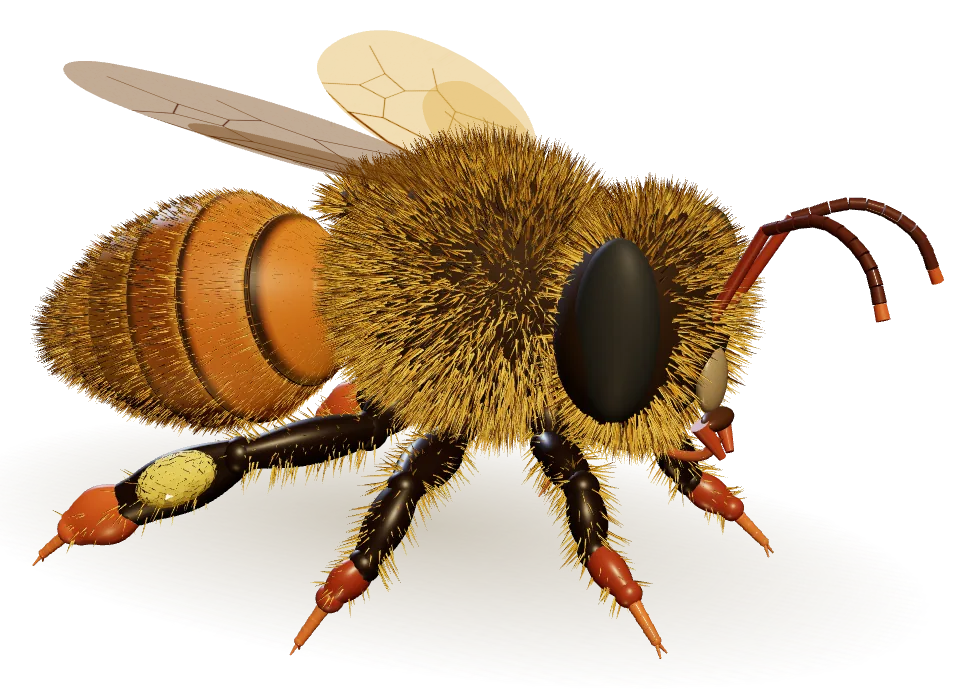
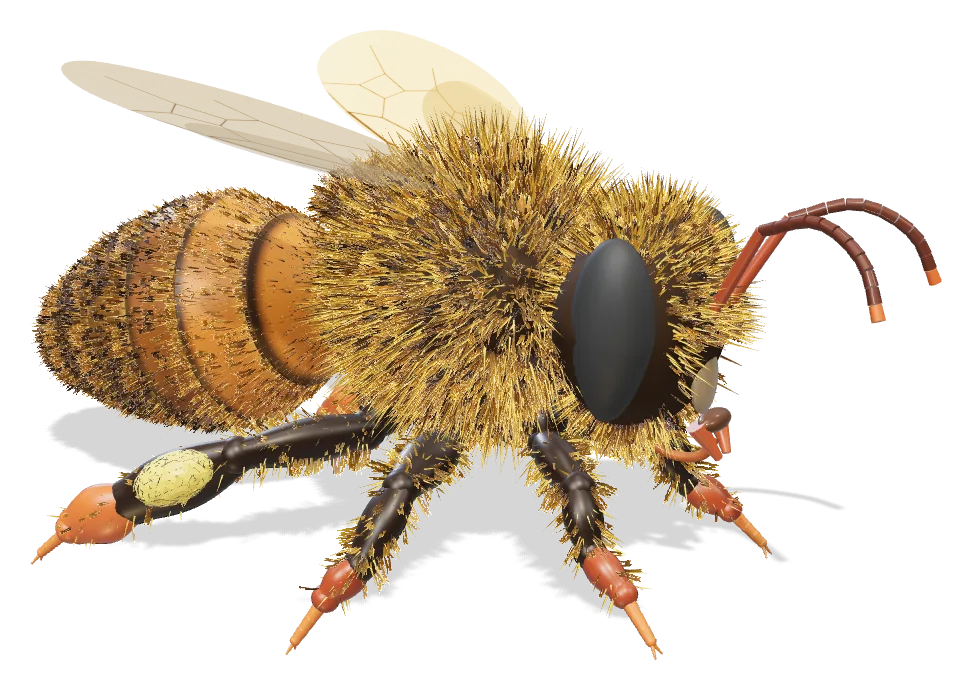
Ape 3D più realistica: pelliccia a ciocche, luce da studio, ombre
- Pelliccia con hair cards (ciocche semitrasparenti con texture di peli)
  su torace, testa, addome e zampe, più peli lunghi isolati sul contorno
- Ambiente da studio (RoomEnvironment) per riflessi morbidi, ombre reali
  dell'ape su se stessa e sul piano
- Puntinatura della cuticola su zampe e faccia
- Testa triangolare vista di fronte, occhi a goccia, clipeo più piccolo
- Immagini statiche (fallback e richiamo in home) rigenerate

Claude-Session: https://claude.ai/code/session_0158YTuXUDsj15VT1c2xNVLb

diff --git a/js/ape3d.js b/js/ape3d.js
@@ -1,6 +1,7 @@
 // Ape operaia (Apis mellifera ligustica) costruita in codice — Vie del Lago Apicoltura
 import * as THREE from './three.module.min.js';
 import { OrbitControls } from './OrbitControls.js';
+import { RoomEnvironment } from './RoomEnvironment.js';
 
 const V = (x, y, z) => new THREE.Vector3(x, y, z);
 
@@ -54,6 +55,76 @@ function peloCurvo() {
   const g = new THREE.BufferGeometry();
   g.setAttribute('position', new THREE.Float32BufferAttribute(pos, 3)); g.setIndex(idx); g.computeVertexNormals();
   return g;
+}
+
+// ---------- pelliccia a ciocche (hair cards) ----------
+// texture: centinaia di peli sottili, radice scura e punta chiara, su fondo trasparente
+let _tc = null;
+function texturaCiocca() {
+  if (_tc) return _tc;
+  const W = 128, H = 512, cv = document.createElement('canvas'); cv.width = W; cv.height = H;
+  const x = cv.getContext('2d'), r = rng(77);
+  for (let i = 0; i < 26; i++) {
+    const x0 = W * (0.12 + r() * 0.76), lun = H * (0.45 + r() * 0.55), curva = (r() - 0.5) * W * 0.5, lw = 3 + r() * 3.5;
+    const g = x.createLinearGradient(0, H, 0, H - lun);
+    const b = 0.75 + r() * 0.25;
+    g.addColorStop(0, `rgba(${120 * b},${100 * b},${75 * b},0.95)`);
+    g.addColorStop(0.45, `rgba(${200 * b},${180 * b},${150 * b},0.95)`);
+    g.addColorStop(0.85, `rgba(${250 * b},${240 * b},${215 * b},0.8)`);
+    g.addColorStop(1, 'rgba(255,250,235,0)');
+    x.strokeStyle = g; x.lineWidth = lw; x.lineCap = 'round';
+    x.beginPath(); x.moveTo(x0, H); x.quadraticCurveTo(x0 + curva * 0.4, H - lun * 0.5, x0 + curva, H - lun); x.stroke();
+  }
+  _tc = new THREE.CanvasTexture(cv); _tc.colorSpace = THREE.SRGBColorSpace; _tc.anisotropy = 4;
+  return _tc;
+}
+
+// una striscia leggermente piegata: la base sulla pelle, la punta curva in avanti
+function geoCiocca() {
+  const pos = [], uv = [], idx = [], N = 3;
+  for (let j = 0; j <= N; j++) {
+    const y = j / N, z = 0.22 * y * y;
+    for (const u of [0, 1]) { pos.push(u - 0.5, y, z); uv.push(u, y); }
+  }
+  for (let j = 0; j < N; j++) { const a = j * 2; idx.push(a, a + 1, a + 2, a + 1, a + 3, a + 2); }
+  const g = new THREE.BufferGeometry();
+  g.setAttribute('position', new THREE.Float32BufferAttribute(pos, 3)); g.setAttribute('uv', new THREE.Float32BufferAttribute(uv, 2));
+  // normali lungo il pelo: la luce cade sulla ciocca come sulla pelle sotto, senza macchie scure
+  const nr = []; for (let i = 0; i < pos.length / 3; i++) nr.push(0, 0.95, 0.3);
+  g.setAttribute('normal', new THREE.Float32BufferAttribute(nr, 3));
+  g.setIndex(idx);
+  return g;
+}
+
+let _matCiocca = null;
+function ciocche(punti, colori) {
+  if (!_matCiocca) _matCiocca = new THREE.MeshStandardMaterial({ map: texturaCiocca(), alphaTest: 0.32, alphaToCoverage: true, side: THREE.DoubleSide, roughness: 0.72, metalness: 0 });
+  const im = new THREE.InstancedMesh(geoCiocca(), _matCiocca, punti.length);
+  const m = new THREE.Matrix4(), q = new THREE.Quaternion(), qr = new THREE.Quaternion(), s = new THREE.Vector3(), c = new THREE.Color(), Y = V(0, 1, 0);
+  punti.forEach((p, i) => {
+    q.setFromUnitVectors(Y, p.dir).multiply(qr.setFromAxisAngle(Y, p.v * 6.283 * 5.1));
+    s.set(p.w || p.len * 0.9, p.len, p.len);
+    m.compose(p.pos, q, s); im.setMatrixAt(i, m);
+    im.setColorAt(i, c.set(colori[i % colori.length]).multiplyScalar(0.9 + p.v * 0.25));
+  });
+  im.instanceMatrix.needsUpdate = true; im.castShadow = true; im.receiveShadow = true;
+  return im;
+}
+
+// puntinatura fine della cuticola, come normal map
+let _np = null;
+function normalePuntini() {
+  if (_np) return _np;
+  const N = 256, cv = document.createElement('canvas'); cv.width = cv.height = N;
+  const x = cv.getContext('2d'), r = rng(31); x.fillStyle = 'rgb(128,128,255)'; x.fillRect(0, 0, N, N);
+  for (let i = 0; i < 900; i++) {
+    const cx = r() * N, cy = r() * N, rr = 1 + r() * 2.6;
+    const g = x.createRadialGradient(cx, cy, 0, cx, cy, rr);
+    g.addColorStop(0, 'rgb(128,128,200)'); g.addColorStop(0.6, 'rgb(150,110,240)'); g.addColorStop(1, 'rgba(128,128,255,0)');
+    x.fillStyle = g; x.beginPath(); x.arc(cx, cy, rr, 0, 7); x.fill();
+  }
+  _np = new THREE.CanvasTexture(cv); _np.wrapS = _np.wrapT = THREE.RepeatWrapping; _np.repeat.set(2, 4);
+  return _np;
 }
 
 // peli: tanti coni sottilissimi, orientati lungo la normale e piegati all'indietro
@@ -216,10 +287,11 @@ export function costruisciApe() {
   const ape = new THREE.Group();
   const mat = (color, o = {}) => new THREE.MeshPhysicalMaterial({ color, roughness: 0.6, ...o });
   const cut = mat(0x3a2816, { roughness: 0.75 });
-  const nero = mat(0x2a1a10, { roughness: 0.4, clearcoat: 0.6, clearcoatRoughness: 0.35 });
-  const rosso = mat(0x9c4422, { roughness: 0.38, clearcoat: 0.7, clearcoatRoughness: 0.3 });
-  const arancio = mat(0xc4602a, { roughness: 0.4, clearcoat: 0.6, clearcoatRoughness: 0.3 });
-  const tarso = mat(0xd2722e, { roughness: 0.45, clearcoat: 0.5 });
+  const pt = { normalMap: normalePuntini(), normalScale: new THREE.Vector2(0.5, 0.5) };
+  const nero = mat(0x2a1a10, { roughness: 0.42, clearcoat: 0.6, clearcoatRoughness: 0.35, ...pt });
+  const rosso = mat(0x9c4422, { roughness: 0.38, clearcoat: 0.7, clearcoatRoughness: 0.3, ...pt });
+  const arancio = mat(0xc4602a, { roughness: 0.4, clearcoat: 0.6, clearcoatRoughness: 0.3, ...pt });
+  const tarso = mat(0xd2722e, { roughness: 0.45, clearcoat: 0.5, ...pt });
   const peloMat = new THREE.MeshStandardMaterial({ roughness: 0.75, metalness: 0 });
   const corpo = [];
 
@@ -227,8 +299,9 @@ export function costruisciApe() {
   const TC = V(0.45, 0.05, 0), TS = V(0.55, 0.5, 0.48);
   const torace = new THREE.Mesh(ellissoide(TS.x, TS.y, TS.z), cut); torace.position.copy(TC); ape.add(torace); corpo.push(torace);
   const scut = new THREE.Mesh(ellissoide(0.17, 0.1, 0.26), cut); scut.position.set(0.0, 0.36, 0); ape.add(scut);
-  ape.add(peli(puntiSuEllissoide(9500, TC, TS.clone().multiplyScalar(0.99), 0.14, null, rand, 0.22), ORO, peloMat));
-  ape.add(peli(puntiSuEllissoide(700, V(0.0, 0.36, 0), V(0.17, 0.1, 0.26), 0.1, d => d.y > -0.2, rand, 0.35), ORO, peloMat));
+  ape.add(ciocche(puntiSuEllissoide(4200, TC, TS.clone().multiplyScalar(0.97), 0.16, null, rand, 0.3).map(p => ({ ...p, w: 0.045 + p.v * 0.02 })), ORO));
+  ape.add(ciocche(puntiSuEllissoide(400, V(0.0, 0.36, 0), V(0.17, 0.1, 0.26), 0.12, d => d.y > -0.2, rand, 0.4).map(p => ({ ...p, w: 0.04 })), ORO));
+  ape.add(peli(puntiSuEllissoide(3000, TC, TS.clone().multiplyScalar(0.99), 0.2, null, rand, 0.2), ORO, peloMat));   // peli lunghi isolati sul contorno
 
   // peziolo e addome
   const pez = new THREE.Mesh(ellissoide(0.12, 0.1, 0.11, 20), cut); pez.position.set(-0.12, -0.02, 0); ape.add(pez);
@@ -238,7 +311,7 @@ export function costruisciApe() {
   add.rotation.z = -Math.PI / 2; gAdd.add(add); corpo.push(add);
   // peluria su tutto l'addome: dorata davanti, bruna sui segmenti scuri, fasce chiare all'inizio di ogni tergite
   const pDav = [], pDie = [];
-  for (let i = 0; i < 8000; i++) {
+  for (let i = 0; i < 3800; i++) {
     const t = 0.03 + rand() * 0.95, s = (t * ADDOME.N) % 1, seg = Math.floor(t * ADDOME.N), phi = rand() * Math.PI * 2, r = raggioAddome(t);
     const pos = V(-t * ADDOME.L, Math.cos(phi) * r * 0.99, Math.sin(phi) * r * 0.99);
     const dir = V(-0.9 - rand() * 0.4, Math.cos(phi), Math.sin(phi)).add(V(0, rand() - .5, rand() - .5).multiplyScalar(0.3)).normalize();
@@ -247,25 +320,42 @@ export function costruisciApe() {
     (seg <= 1 || fascia ? pDav : pDie).push(p);
   }
   gAdd.add(peli(pDav, [0xe0a02a, 0xd08e22, 0xeeb840, 0xc07a1c], peloMat), peli(pDie, ORO_SCURO, peloMat));
+  const cDav = [], cDie = [];
+  for (let i = 0; i < 6800; i++) {
+    const t = i < 1600 ? 0.02 + rand() * 0.32 : 0.02 + rand() * 0.95, s = (t * ADDOME.N) % 1, seg = Math.floor(t * ADDOME.N), phi = rand() * Math.PI * 2, r = raggioAddome(t);
+    const pos = V(-t * ADDOME.L, Math.cos(phi) * r * 0.97, Math.sin(phi) * r * 0.97);
+    const dir = V(-1.1 - rand() * 0.5, Math.cos(phi), Math.sin(phi)).normalize();
+    const fascia = s < 0.22, len = (t > 0.85 ? 0.11 : fascia ? 0.09 : 0.065) * (0.75 + rand() * 0.5);
+    (seg <= 1 || fascia ? cDav : cDie).push({ pos, dir, len, w: len * 0.45, v: rand() });
+  }
+  gAdd.add(ciocche(cDav, [0xe6a830, 0xd8962a, 0xf0bc48]), ciocche(cDie, [0x8a6428, 0x6e4c20, 0xa47a30, 0x5a3c18]));
   const pung = new THREE.Mesh(new THREE.ConeGeometry(0.02, 0.17, 10), mat(0xc0602a, { roughness: 0.35 }));
   pung.rotation.z = Math.PI / 2; pung.position.set(-ADDOME.L - 0.06, 0, 0); gAdd.add(pung);
 
   // testa
   const HC = V(1.13, 0.02, 0), HS = V(0.3, 0.42, 0.46);
-  const testa = new THREE.Mesh(ellissoide(HS.x, HS.y, HS.z), cut); testa.position.copy(HC); testa.rotation.z = -0.15; ape.add(testa); corpo.push(testa);
-  ape.add(peli(puntiSuEllissoide(3200, HC, HS.clone().multiplyScalar(1.0), 0.11, d => !(d.x > 0.5 && d.y < -0.05 && Math.abs(d.z) < 0.4) && Math.abs(d.z) < 0.66, rand, 0.05), ORO, peloMat));
+  const gT = ellissoide(HS.x, HS.y, HS.z), pT = gT.attributes.position;
+  for (let i = 0; i < pT.count; i++) { const y = pT.getY(i); if (y < 0) pT.setZ(i, pT.getZ(i) * (1 - 0.38 * (-y / HS.y))); }
+  gT.computeVertexNormals();
+  const testa = new THREE.Mesh(gT, cut); testa.position.copy(HC); testa.rotation.z = -0.15; ape.add(testa); corpo.push(testa);
+  const fTesta = d => !(d.x > 0.5 && d.y < -0.05 && Math.abs(d.z) < 0.4) && Math.abs(d.z) < 0.66 && !(d.y < -0.2 && Math.abs(d.z) > 0.45);
+  ape.add(ciocche(puntiSuEllissoide(1500, HC, HS.clone().multiplyScalar(0.96), 0.1, fTesta, rand, 0.05).map(p => ({ ...p, w: 0.035 })), ORO));
+  ape.add(peli(puntiSuEllissoide(1400, HC, HS, 0.12, fTesta, rand, 0.05), ORO, peloMat));
   // occhi: grandi, grigio scuro opaco, con la trama fine degli ommatidi
   const occhioMat = new THREE.MeshPhysicalMaterial({ color: 0x3a3d41, roughness: 0.62, clearcoat: 0.18, clearcoatRoughness: 0.5, normalMap: texturaOmmatidi(), normalScale: new THREE.Vector2(0.45, 0.45) });
   for (const z of [1, -1]) {
-    const o = new THREE.Mesh(ellissoide(0.17, 0.35, 0.13, 56), occhioMat);
+    const gO = ellissoide(0.17, 0.35, 0.13, 56), pO = gO.attributes.position;
+    for (let i = 0; i < pO.count; i++) { const y = pO.getY(i); if (y < 0) { const k = 1 - 0.32 * (-y / 0.35); pO.setX(i, pO.getX(i) * k); pO.setZ(i, pO.getZ(i) * (0.85 + 0.15 * k)); } }
+    gO.computeVertexNormals();
+    const o = new THREE.Mesh(gO, occhioMat);
     o.position.set(1.17, 0.05, 0.355 * z); o.rotation.set(0.12 * z, -0.35 * z, -0.12); ape.add(o); corpo.push(o);
   }
   for (const [x, y, z] of [[1.1, 0.42, 0], [1.03, 0.39, 0.09], [1.03, 0.39, -0.09]]) {
     const oc = new THREE.Mesh(new THREE.SphereGeometry(0.032, 16, 12), occhioMat); oc.position.set(x, y, z); ape.add(oc);
   }
   // faccia: clipeo chiaro e lucido, labbro, mandibole arancio
-  const clip = new THREE.Mesh(ellissoide(0.05, 0.13, 0.1), mat(0xa39275, { roughness: 0.3, clearcoat: 0.8, clearcoatRoughness: 0.2 }));
-  clip.position.set(1.4, -0.17, 0); ape.add(clip);
+  const clip = new THREE.Mesh(ellissoide(0.035, 0.13, 0.1), mat(0x8f7c60, { roughness: 0.3, clearcoat: 0.8, clearcoatRoughness: 0.2, ...pt }));
+  clip.position.set(1.385, -0.17, 0); ape.add(clip);
   const labbro = new THREE.Mesh(ellissoide(0.05, 0.04, 0.11), mat(0x5a3a22, { roughness: 0.4, clearcoat: 0.5 })); labbro.position.set(1.43, -0.32, 0); ape.add(labbro);
   const mand = mat(0xb4542a, { roughness: 0.35, clearcoat: 0.7 });
   for (const z of [1, -1]) ape.add(segmento(V(1.4, -0.32, 0.1 * z), V(1.47, -0.45, 0.04 * z), 0.04, 0.016, mand));
@@ -317,7 +407,9 @@ export function costruisciApe() {
     if (z > 0) cestella = pol;
   }
   ape.add(zamp);
-  ape.add(peli(pZ, [0xe8b428, 0xf0c440, 0xd8a020, 0xc89418], peloMat));
+  ape.add(peli(pZ.filter((p, i) => i % 2), [0xe8b428, 0xf0c440, 0xd8a020, 0xc89418], peloMat));
+  ape.add(ciocche(pZ.filter((p, i) => i % 2 === 0).map(p => ({ ...p, len: p.len * 1.1, w: p.len * 0.35 })), [0xe8b428, 0xf0c440, 0xd8a020]));
+  ape.traverse(o => { if (o.isMesh && !o.isInstancedMesh) { o.castShadow = true; o.receiveShadow = true; } });
 
   ape.position.set(-0.15, 0.25, 0);
   const pc = cestella.position;
@@ -350,16 +442,24 @@ const VISTE = {
 export function avvia(contenitore, { onSeleziona } = {}) {
   const ridotto = matchMedia('(prefers-reduced-motion: reduce)').matches;
   const renderer = new THREE.WebGLRenderer({ antialias: true, alpha: true, powerPreference: 'low-power' });
-  renderer.setPixelRatio(Math.min(devicePixelRatio, 2));
+  renderer.setPixelRatio(Math.min(devicePixelRatio, matchMedia('(pointer: coarse)').matches ? 1.75 : 2));
   renderer.outputColorSpace = THREE.SRGBColorSpace;
-  renderer.toneMapping = THREE.ACESFilmicToneMapping; renderer.toneMappingExposure = 1.05;
+  renderer.toneMapping = THREE.ACESFilmicToneMapping; renderer.toneMappingExposure = 1.0;
+  const leggero = matchMedia('(pointer: coarse)').matches || Math.min(screen.width, screen.height) < 600;
+  renderer.shadowMap.enabled = true; renderer.shadowMap.type = THREE.PCFShadowMap;
   contenitore.prepend(renderer.domElement);
 
   const scena = new THREE.Scene();
   const cam = new THREE.PerspectiveCamera(30, 1, 0.1, 50);
   cam.position.set(3.4, 1.7, 5.6);
-  scena.add(new THREE.HemisphereLight(0xfff3dc, 0x5a4a35, 1.1));
-  const sole = new THREE.DirectionalLight(0xffe2b0, 2.6); sole.position.set(4, 6, 5); scena.add(sole);
+  // ambiente da studio fotografico: riflessi morbidi su occhi, cuticola e ali
+  const pm = new THREE.PMREMGenerator(renderer);
+  scena.environment = pm.fromScene(new RoomEnvironment(), 0.04).texture; scena.environmentIntensity = 0.55;
+  scena.add(new THREE.HemisphereLight(0xfff3dc, 0x5a4a35, 0.55));
+  const sole = new THREE.DirectionalLight(0xfff0d8, 2.4); sole.position.set(3, 7, 4); scena.add(sole);
+  sole.castShadow = true; sole.shadow.mapSize.set(leggero ? 1024 : 2048, leggero ? 1024 : 2048);
+  Object.assign(sole.shadow.camera, { left: -2.6, right: 2.6, top: 2.6, bottom: -2.6, near: 1, far: 16 });
+  sole.shadow.bias = -0.0004; sole.shadow.normalBias = 0.02; sole.shadow.radius = 6;
   const contro = new THREE.DirectionalLight(0xbfd4ff, 1.1); contro.position.set(-5, 2, -4); scena.add(contro);
   const basso = new THREE.DirectionalLight(0xffd9a0, 0.5); basso.position.set(0, -5, 3); scena.add(basso);
 
@@ -370,6 +470,8 @@ export function avvia(contenitore, { onSeleziona } = {}) {
   cx.fillStyle = gr; cx.fillRect(0, 0, 128, 128);
   const ombra = new THREE.Mesh(new THREE.PlaneGeometry(4.2, 2.6), new THREE.MeshBasicMaterial({ map: new THREE.CanvasTexture(cv), transparent: true, depthWrite: false }));
   ombra.rotation.x = -Math.PI / 2; ombra.position.set(0, -0.68, 0.1); scena.add(ombra);
+  const pav = new THREE.Mesh(new THREE.PlaneGeometry(8, 8), new THREE.ShadowMaterial({ opacity: 0.16 }));
+  pav.rotation.x = -Math.PI / 2; pav.position.y = -0.675; pav.receiveShadow = true; scena.add(pav);
 
   const ctr = new OrbitControls(cam, renderer.domElement);
   ctr.target.set(0, -0.1, 0); ctr.enableDamping = true; ctr.dampingFactor = 0.08; ctr.enablePan = false;

diff --git a/js/RoomEnvironment.js b/js/RoomEnvironment.js
@@ -1,0 +1,144 @@
+/**
+ * https://github.com/google/model-viewer/blob/master/packages/model-viewer/src/three-components/EnvironmentScene.ts
+ */
+
+import {
+ 	BackSide,
+ 	BoxGeometry,
+ 	Mesh,
+	MeshBasicMaterial,
+ 	MeshStandardMaterial,
+ 	PointLight,
+ 	Scene,
+} from './three.module.min.js';
+
+class RoomEnvironment extends Scene {
+
+	constructor() {
+
+		super();
+
+		const geometry = new BoxGeometry();
+		geometry.deleteAttribute( 'uv' );
+
+		const roomMaterial = new MeshStandardMaterial( { side: BackSide } );
+		const boxMaterial = new MeshStandardMaterial();
+
+		const mainLight = new PointLight( 0xffffff, 900, 28, 2 );
+		mainLight.position.set( 0.418, 16.199, 0.300 );
+		this.add( mainLight );
+
+		const room = new Mesh( geometry, roomMaterial );
+		room.position.set( - 0.757, 13.219, 0.717 );
+		room.scale.set( 31.713, 28.305, 28.591 );
+		this.add( room );
+
+		const box1 = new Mesh( geometry, boxMaterial );
+		box1.position.set( - 10.906, 2.009, 1.846 );
+		box1.rotation.set( 0, - 0.195, 0 );
+		box1.scale.set( 2.328, 7.905, 4.651 );
+		this.add( box1 );
+
+		const box2 = new Mesh( geometry, boxMaterial );
+		box2.position.set( - 5.607, - 0.754, - 0.758 );
+		box2.rotation.set( 0, 0.994, 0 );
+		box2.scale.set( 1.970, 1.534, 3.955 );
+		this.add( box2 );
+
+		const box3 = new Mesh( geometry, boxMaterial );
+		box3.position.set( 6.167, 0.857, 7.803 );
+		box3.rotation.set( 0, 0.561, 0 );
+		box3.scale.set( 3.927, 6.285, 3.687 );
+		this.add( box3 );
+
+		const box4 = new Mesh( geometry, boxMaterial );
+		box4.position.set( - 2.017, 0.018, 6.124 );
+		box4.rotation.set( 0, 0.333, 0 );
+		box4.scale.set( 2.002, 4.566, 2.064 );
+		this.add( box4 );
+
+		const box5 = new Mesh( geometry, boxMaterial );
+		box5.position.set( 2.291, - 0.756, - 2.621 );
+		box5.rotation.set( 0, - 0.286, 0 );
+		box5.scale.set( 1.546, 1.552, 1.496 );
+		this.add( box5 );
+
+		const box6 = new Mesh( geometry, boxMaterial );
+		box6.position.set( - 2.193, - 0.369, - 5.547 );
+		box6.rotation.set( 0, 0.516, 0 );
+		box6.scale.set( 3.875, 3.487, 2.986 );
+		this.add( box6 );
+
+
+		// -x right
+		const light1 = new Mesh( geometry, createAreaLightMaterial( 50 ) );
+		light1.position.set( - 16.116, 14.37, 8.208 );
+		light1.scale.set( 0.1, 2.428, 2.739 );
+		this.add( light1 );
+
+		// -x left
+		const light2 = new Mesh( geometry, createAreaLightMaterial( 50 ) );
+		light2.position.set( - 16.109, 18.021, - 8.207 );
+		light2.scale.set( 0.1, 2.425, 2.751 );
+		this.add( light2 );
+
+		// +x
+		const light3 = new Mesh( geometry, createAreaLightMaterial( 17 ) );
+		light3.position.set( 14.904, 12.198, - 1.832 );
+		light3.scale.set( 0.15, 4.265, 6.331 );
+		this.add( light3 );
+
+		// +z
+		const light4 = new Mesh( geometry, createAreaLightMaterial( 43 ) );
+		light4.position.set( - 0.462, 8.89, 14.520 );
+		light4.scale.set( 4.38, 5.441, 0.088 );
+		this.add( light4 );
+
+		// -z
+		const light5 = new Mesh( geometry, createAreaLightMaterial( 20 ) );
+		light5.position.set( 3.235, 11.486, - 12.541 );
+		light5.scale.set( 2.5, 2.0, 0.1 );
+		this.add( light5 );
+
+		// +y
+		const light6 = new Mesh( geometry, createAreaLightMaterial( 100 ) );
+		light6.position.set( 0.0, 20.0, 0.0 );
+		light6.scale.set( 1.0, 0.1, 1.0 );
+		this.add( light6 );
+
+	}
+
+	dispose() {
+
+		const resources = new Set();
+
+		this.traverse( ( object ) => {
+
+			if ( object.isMesh ) {
+
+				resources.add( object.geometry );
+				resources.add( object.material );
+
+			}
+
+		} );
+
+		for ( const resource of resources ) {
+
+			resource.dispose();
+
+		}
+
+	}
+
+}
+
+function createAreaLightMaterial( intensity ) {
+
+	const material = new MeshBasicMaterial();
+	material.color.setScalar( intensity );
+	return material;
+
+}
+
+export { RoomEnvironment };

diff --git a/en/index.html b/en/index.html
@@ -241,7 +241,7 @@
       </div>
       <div data-rivela style="margin-top:56px"><a class="btn" href="/en/educazione.html">The hive data <span class="freccia" aria-hidden="true">→</span></a></div>
       <a class="richiamo-ape" href="/en/api.html#esplora" data-rivela>
-        <img src="/img/ape3d/ape-richiamo.webp" alt="" width="974" height="689" loading="lazy">
+        <img src="/img/ape3d/ape-richiamo.webp" alt="" width="972" height="690" loading="lazy">
         <span class="richiamo-ape__testo">
           <span class="etichetta">Up close</span>
           <span class="richiamo-ape__titolo">Explore the worker bee in 3D</span>

diff --git a/index.html b/index.html
@@ -237,7 +237,7 @@
       </div>
       <div data-rivela style="margin-top:56px"><a class="btn" href="educazione.html">I dati dell'alveare <span class="freccia" aria-hidden="true">→</span></a></div>
       <a class="richiamo-ape" href="api.html#esplora" data-rivela>
-        <img src="img/ape3d/ape-richiamo.webp" alt="" width="974" height="689" loading="lazy">
+        <img src="img/ape3d/ape-richiamo.webp" alt="" width="972" height="690" loading="lazy">
         <span class="richiamo-ape__testo">
           <span class="etichetta">Da vicino</span>
           <span class="richiamo-ape__titolo">Esplora l'ape operaia in 3D</span>
